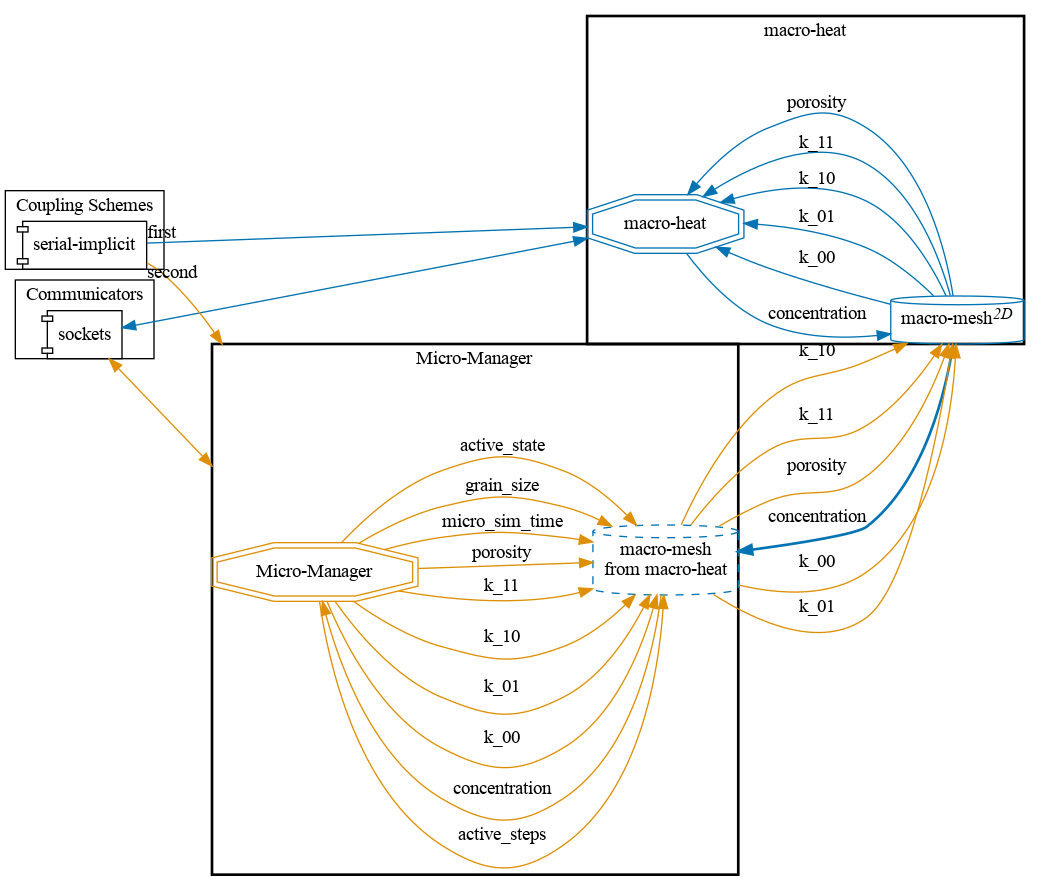
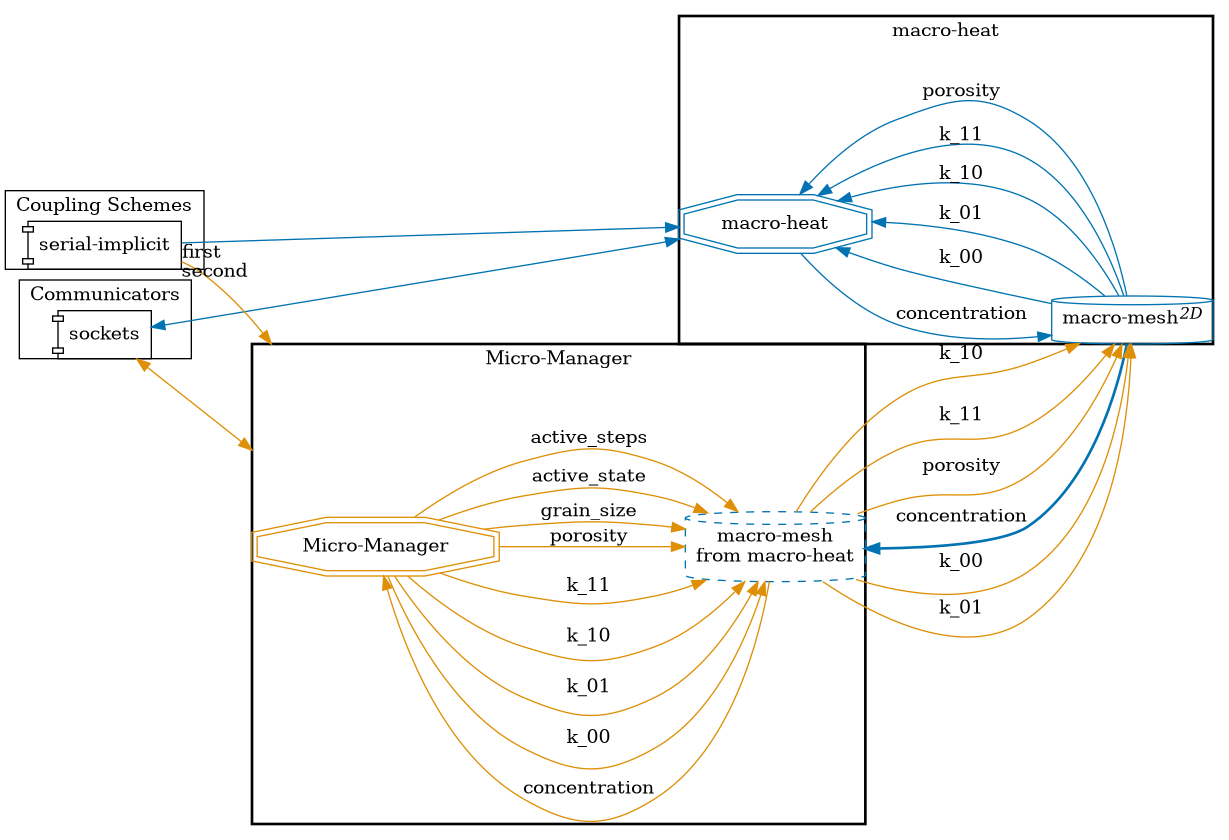
Remove simulation time from precice-config file of two-scale heat conduction (#668)
* Remove simulation time from precice-config of two-scale heat conduction

* Add changelog entry

* Use past tense in changelog

* Modify visualization of precice config

Changed region(s): [[0.0, 0.0, 1.0, 0.9905]]

diff --git a/changelog-entries/668.md b/changelog-entries/668.md
@@ -1,0 +1,1 @@
+- Removed simulation time from precice-config.xml of two-scale heat conduction [#668](https://github.com/precice/tutorials/pull/668)
